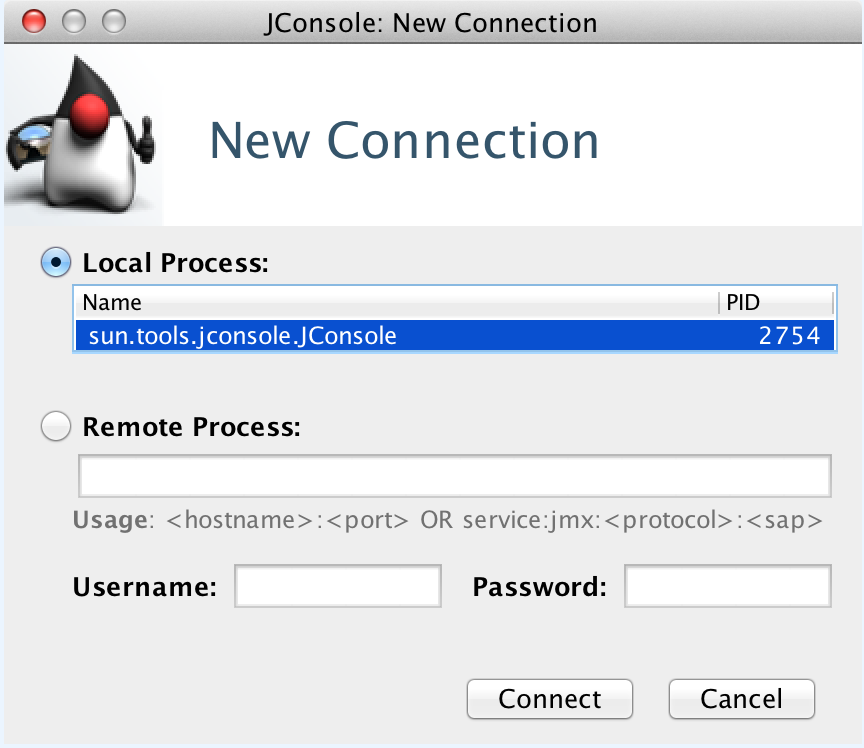
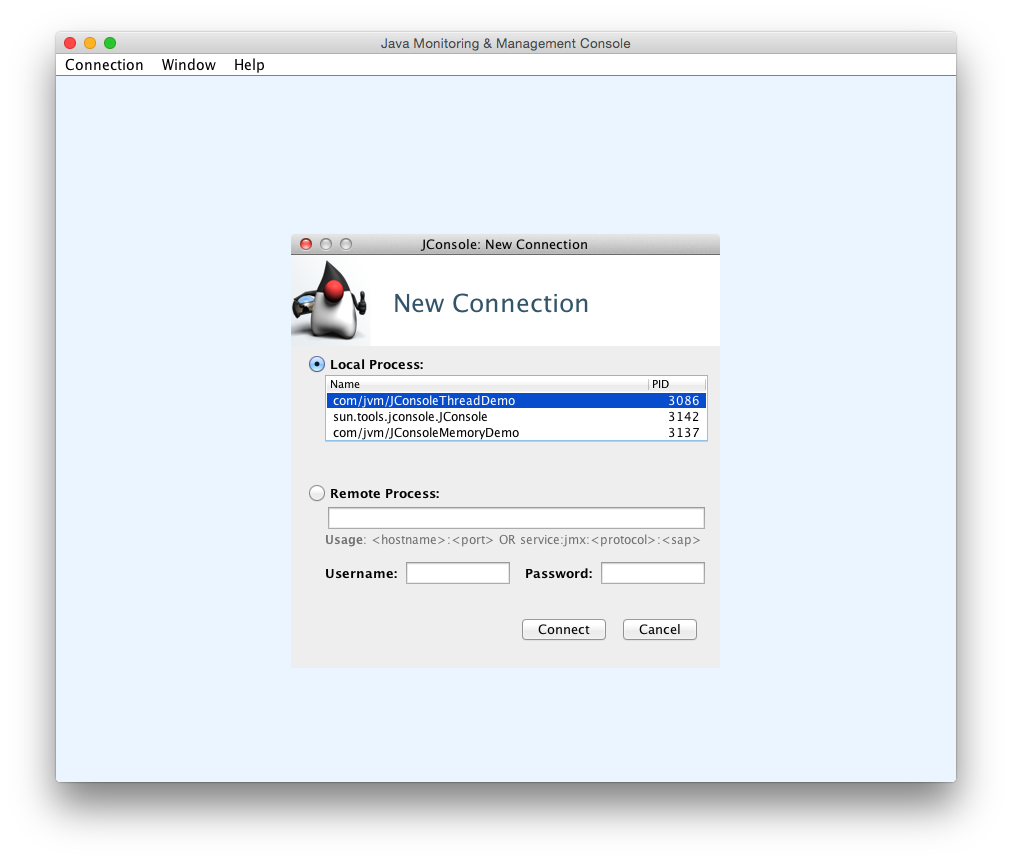
add chapter04 jconsole

Changed region(s): [[0.0, 0.0, 1.0, 0.9532], [0.2188, 0.1537, 0.6875, 0.2152]]

diff --git a/chapter04/04_02_visualize_tool.md b/chapter04/04_02_visualize_tool.md
@@ -45,9 +45,103 @@ public static void main(String args[])throws Exception {
 }
 ```
 
+运行程序后可以发现整个堆是一条向上增长的平滑曲线。
 
+![](../img/04/04_02_03_jconsole_memory_1.png)
+
+当我们把监视区域缩小至Eden区时会发现其是一条折线图。从图中可以看出整个Eden区的大小是27328KB，默认情况下Eden:Survivor=8:1，所以整个新生代的大小是27328*125%=34160KB。当Eden区内存不足时，会执行GC，执行GC后Eden区被清空，所以Eden区才是折线图。
+
+![](../img/04/04_02_03_jconsole_memory_2.png)
+
+当我们把监视区域切换至老年代时，会发现其仍然是平稳上升并到达了一个顶点后稳定下去。
+
+![](../img/04/04_02_03_jconsole_memory_3.png)
 
 ### 线程监控
+
+“线程”页签的功能相当于可视化的jstack命令，遇到线程停顿时可以使用这个页签进行监控分析。之前说过导致线程长时间停顿的主要原因有：等待外部资源、死循环、锁等待等。下面我们通过代码来演示一下。
+
+```java
+/**
+ * 线程死循环演示
+ */
+public static void createBusyThread() {
+    new Thread(new Runnable() {
+        @Override
+        public void run() {
+            int i = 1;
+            while (true) {
+                i++;
+                System.out.println("Hello" + i);
+            }
+        }
+    }, "testBusyThread").start();
+}
+/**
+ * 测试锁等待演示
+ * @param lock
+ */
+public static void createLockThread(final Object lock) {
+    new Thread(new Runnable() {
+        @Override
+        public void run() {
+            synchronized (lock) {
+                try {
+                    lock.wait();
+                } catch (InterruptedException e) {
+                    e.printStackTrace();
+                }
+            }
+        }
+    }, "testLockThread").start();
+}
+public static void main(String args[]) throws Exception {
+    BufferedReader br = new BufferedReader(new InputStreamReader(System.in));
+    br.readLine();
+    createBusyThread();
+    br.readLine();
+    createLockThread(new Object());
+}
+```
+
+运行程序后在“线程”页签中会发现只有main线程，其处于RUNNABLE状态，并且main线程在等待输入。当输入字符按下回车键之后，会多了一个testBusyThread的线程，并且显示其处于RUNNABLE状态，且一直在执行createBusyThread()方法22行处的代码 while(true)。这种死循环很耗CPU资源，在Windows系统下一不小心就会造成系统死机。
+
+![](../img/04/04_02_04_jconsole_thread_1.png)
+
+当我们再次往控制台输入字符并按下回车键时，会发现又多了一个testLockThread线程，显示testLockThread线程处于WAITING状态，并且处于代码第38行，即：lock.wait() 处。这种等待方式是正常的等待方式，只要有另外一个地方调用了 notify() 或 notifyAll() 方法，线程就有机会得以运行。
+
+![](../img/04/04_02_04_jconsole_thread_2.png)
+
+下面的代码演示了一个无法被激活的死锁等待。
+
+```java
+public static void main(String args[]) throws Exception {
+    for (int i = 0; i < 100; i++) {
+        new Thread(new SynAddRunnable(1, 2)).start();
+        new Thread(new SynAddRunnable(2, 1)).start();
+    }
+}
+static class SynAddRunnable implements Runnable {
+    int a,b;
+    public SynAddRunnable(int a, int b) {
+        this.a = a;
+        this.b = b;
+    }
+    public void run() {
+        synchronized (Integer.valueOf(a)) {
+            synchronized (Integer.valueOf(b)) {
+                System.out.println(a + b);
+            }
+        }
+    }
+}
+```
+
+上面的代码因为Integer.valueOf()创建对象的原因，只存在一个new Integer(1)和一个new Integer(2)对象，因此会出现200个线程进行资源争夺的情况。这时候按下“Detect DeadLock”按钮可以检测是否有死锁存在，如果有死锁存在那么会新打开一个页签，如下图所示：
+
+![](../img/04/04_02_04_jconsole_thread_3.png)
+
+从上图可以看出Thread-199处于阻塞状态，原因是其中有一个锁被Thread-11持有，而Thread-11锁需要的锁又被Thread-4持有，Thread-4所需要的锁又被Thread-199持有，它们一起形成了一个死锁环。
 
 ## VisualVM：多合一故障处理工具
 
